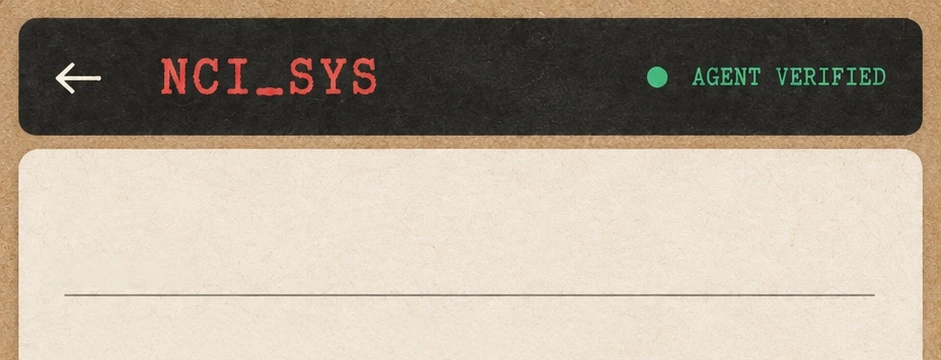
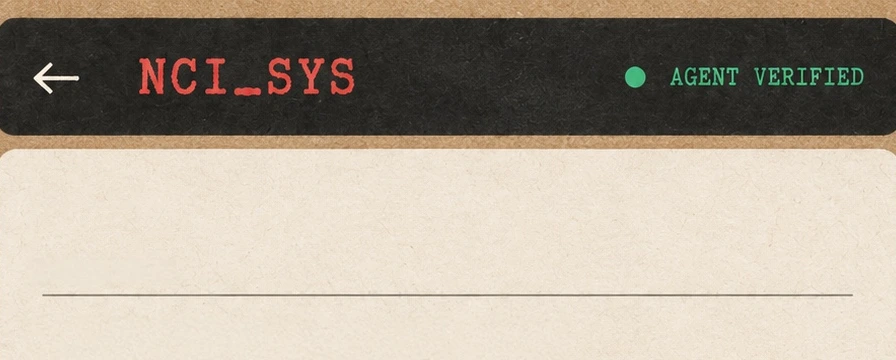
Remove seam between message header and body kraft border
The header graphic had its own baked-in kraft border, independent of
the body's repeat-y tile border starting fresh below it - different
crop origin on the same source photo, so the two border strips didn't
line up in width/shade at the seam. Recropped the header asset without
its side border (inner content only, 896/941 width) and sized it at
95.22% width centered, so the screen-level tile's border - which
already spans the full card height - shows through on the sides
behind the header too, making it one continuous strip top to bottom.

diff --git a/index.html b/index.html
@@ -756,7 +756,7 @@ body{font-family:'Share Tech Mono',monospace;background:#0a0a0a;color:#c8c8c0;mi
 #s5 .msg-detail-head{
   display:block;flex-shrink:0;
   aspect-ratio:941/360;position:relative;
-  background:url('assets/msg_header_generic.webp') top center no-repeat;background-size:100% 100%;
+  background:url('assets/msg_header_generic.webp') top center no-repeat;background-size:95.22% 100%;
   border:none;margin:0;padding:0;
 }
 .s5-back-overlay{
@@ -885,7 +885,7 @@ body{font-family:'Share Tech Mono',monospace;background:#0a0a0a;color:#c8c8c0;mi
 </style>
 </head>
 <body>
-<div style="position:fixed;top:0;left:0;right:0;z-index:99999;background:#111;color:#0f0;font-family:monospace;font-size:11px;text-align:center;padding:3px 0;">BUILD v378</div>
+<div style="position:fixed;top:0;left:0;right:0;z-index:99999;background:#111;color:#0f0;font-family:monospace;font-size:11px;text-align:center;padding:3px 0;">BUILD v379</div>
 <div class="scanline"></div>
 <div class="blackout" id="blackout"></div>
 <div class="scan-auth" id="scanAuth"></div>
